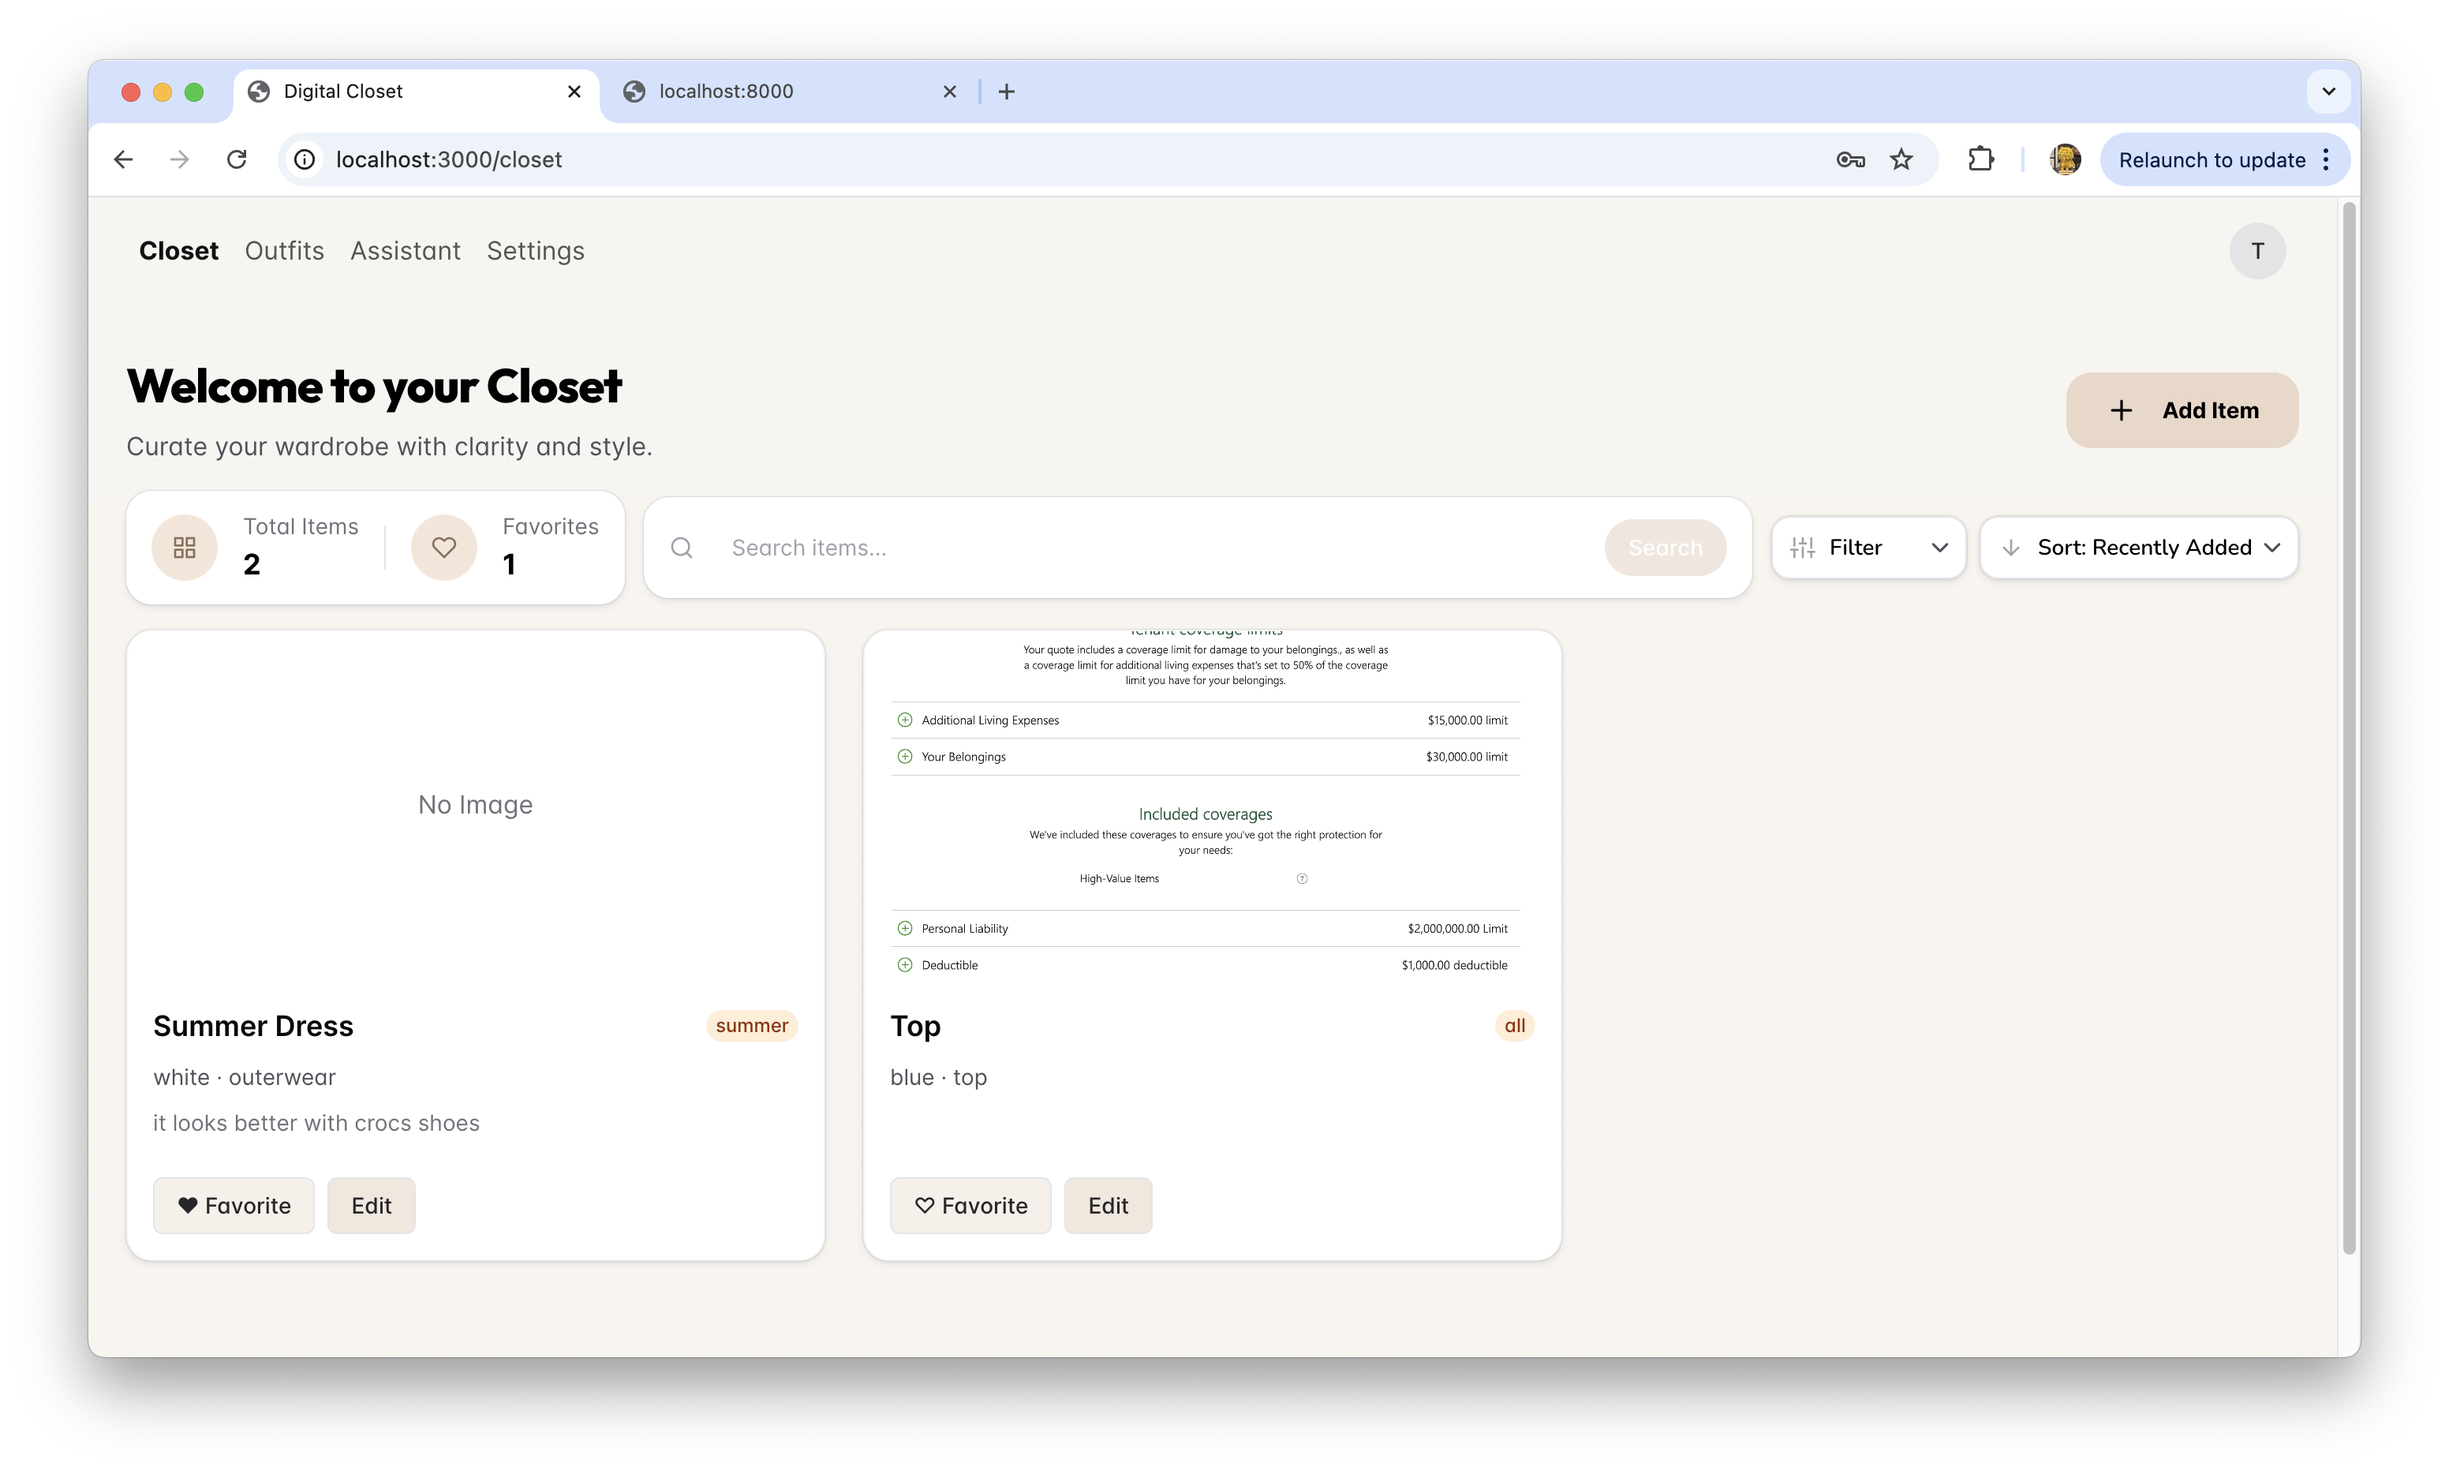
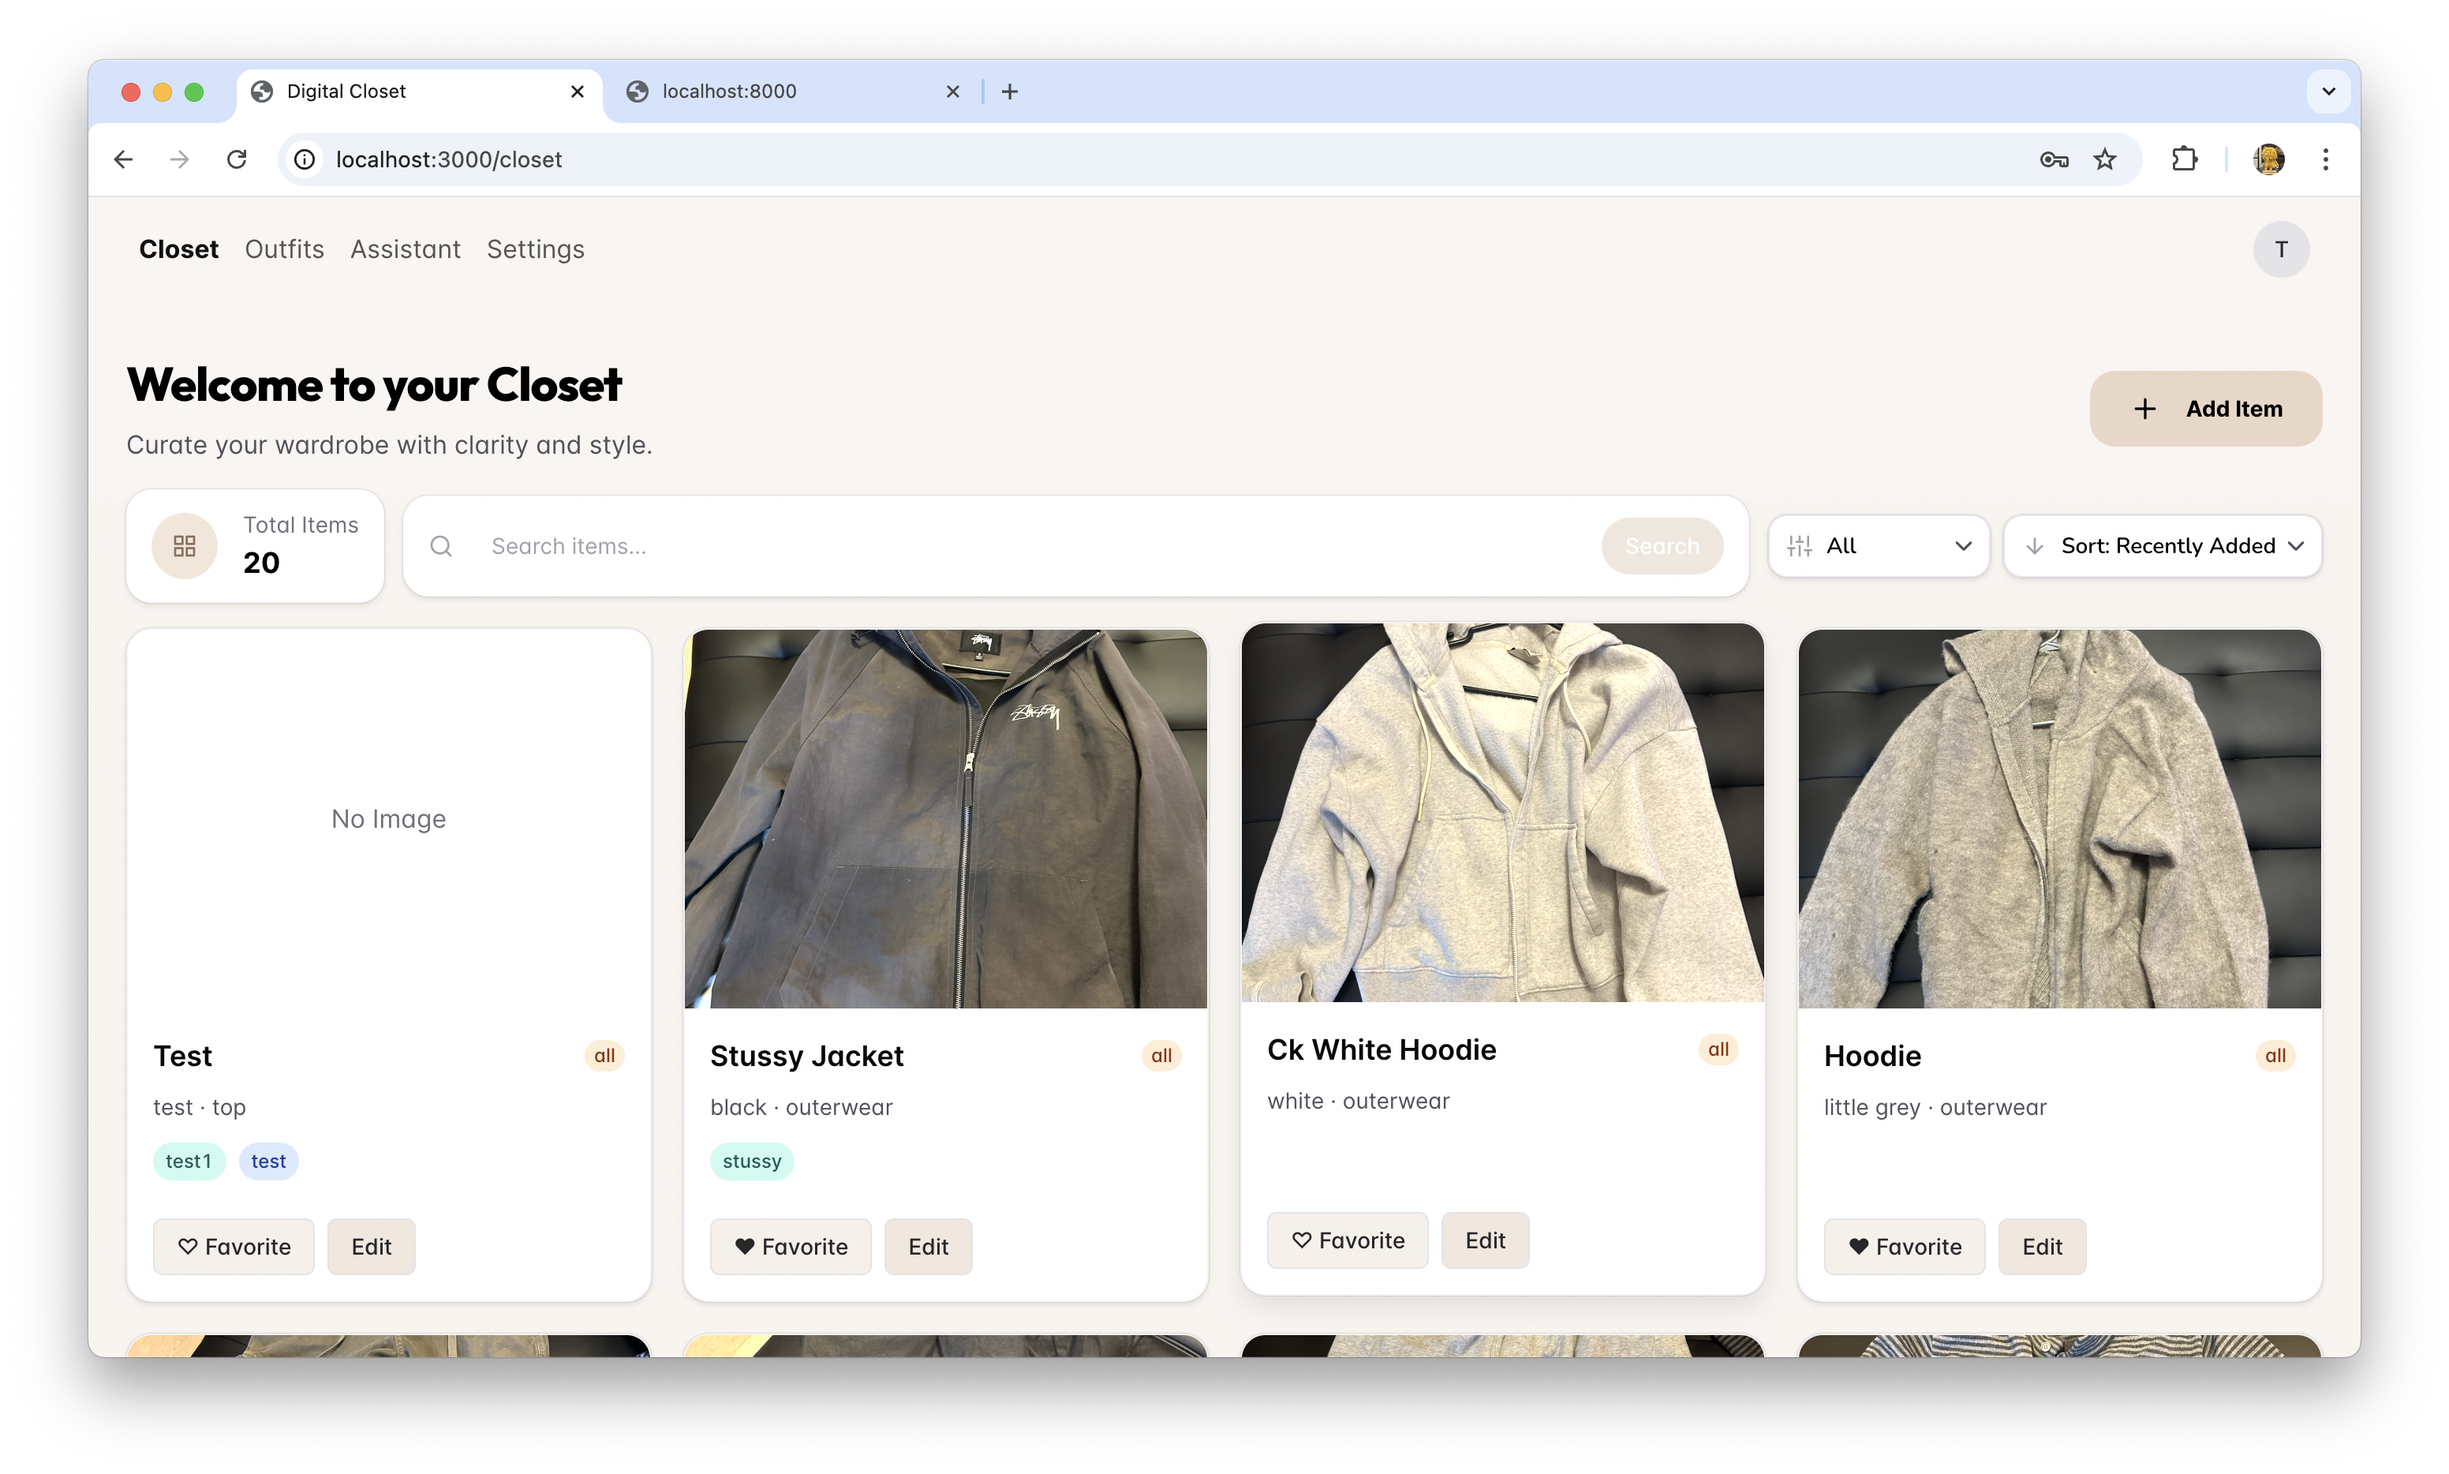
update doc files

diff --git a/README.md b/README.md
@@ -20,8 +20,11 @@ cd fullstack-app/backend
 python -m venv .venv
 source .venv/bin/activate
 pip install -r requirements.txt
-cd /Users/yuhong/Desktop/sl/digitalCloset
-python init_db.py
+
+# Create .env in fullstack-app/backend before running init_db.py
+# First-time DB init (run from the backend folder)
+python ../../init_db.py
+
 uvicorn app.main:app --reload
 ```
 
@@ -50,6 +53,9 @@ JWT_SECRET=your_jwt_secret
 - Outfit planning (create and manage looks)
 
 ## Screenshots
+
+### Login/Signup
+![login](images/login.png)
 
 ### Closet
 ![Closet](images/closet.png)
